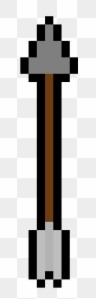
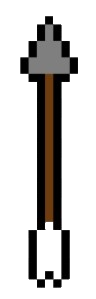
fixed some bugs in arrow

diff --git a/nephiHunting/arcade_constants.py b/nephiHunting/arcade_constants.py
@@ -12,7 +12,7 @@ COIN_SCALING = 0.5
 PLAYER_MOVEMENT_SPEED = 5
 
 # Arrow constants
-SPRITE_SCALING_LASER = 0.8
+SPRITE_SCALING_LASER = 0.1
 RIGHT_FACING = 0
 LEFT_FACING = 1
 BULLET_SPEED = 12
